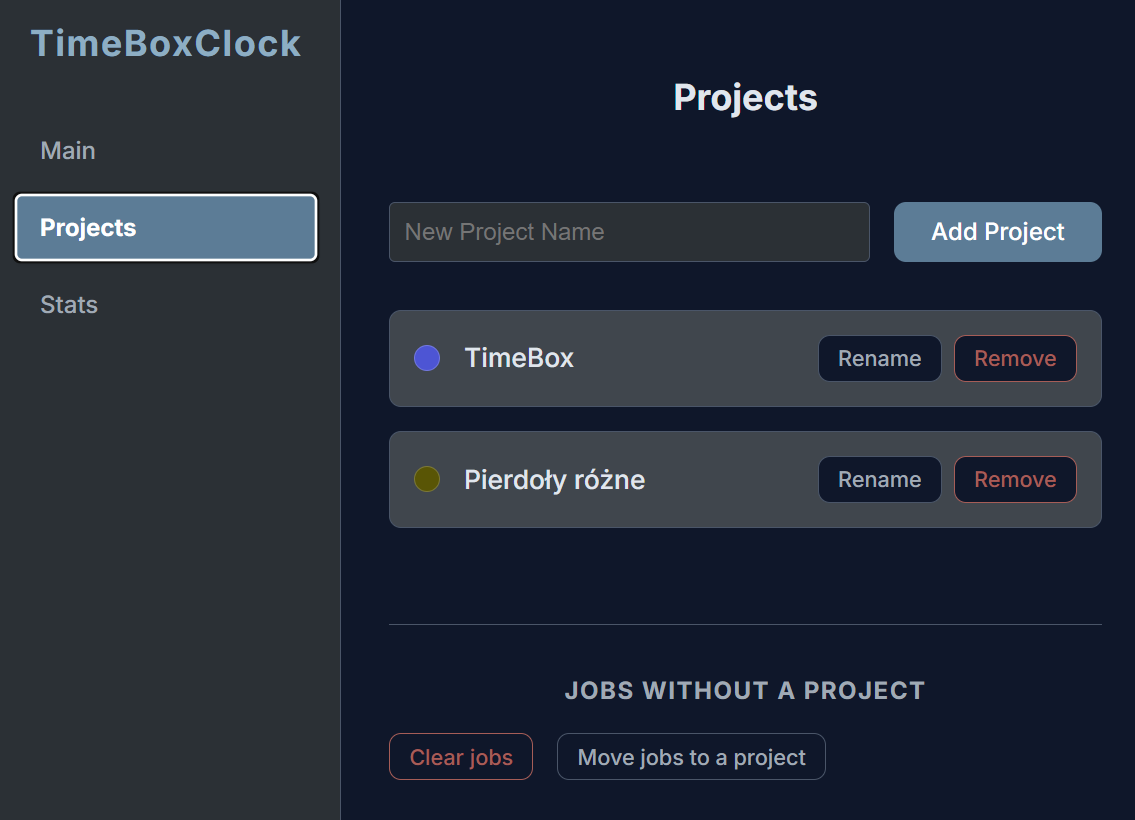
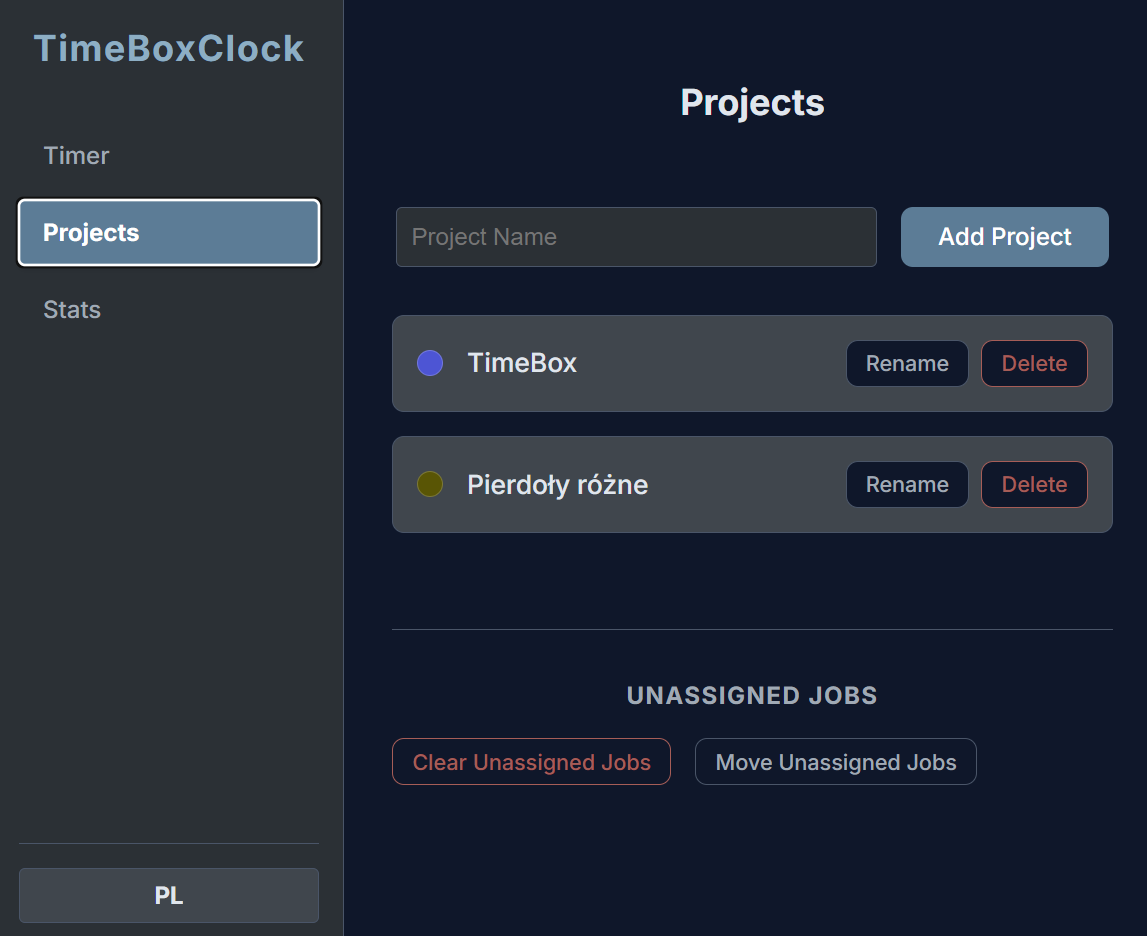
README updated

diff --git a/README.md b/README.md
@@ -6,11 +6,17 @@ TimeBoxClock is a simple time-boxing application that helps you to focus on your
 
 It sits in a tray. When needed, shows a main window. From here you can easily start or stop a timer. Each measurement can be assigned to a project. 
 
+For now it detects user's locale and shows appropriate language. Right now, only English and Polish are supported.
+
 ![TimeBoxClock](screenshot_mainscreen.png)
 
 On projects page you can see list of projects, add new project and rename or delete existing projects.
 Also on this page you can group manage existing jobs without any project assigned - those
 jobs can be either assigned to a project or deleted.
+
+[!NOTE]
+All jobs older than today, are grouped by date and project on each application start.
+
 
 ![TimeBoxClock](screenshot_projects.png)
 
